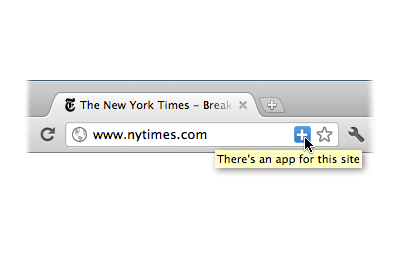
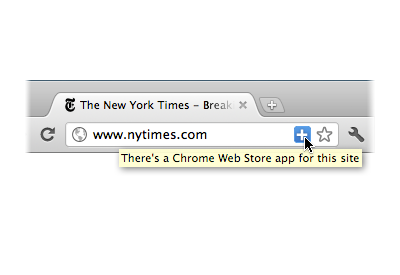
Update README with Chrome Web Store link.
Update screenshot with new name.

Changed region(s): [[0.27, 0.5236, 0.9, 0.64]]

diff --git a/README.md b/README.md
@@ -5,6 +5,8 @@
  * A page action (a blue [+] icon) shows up on sites that have a corresponding Chrome Web Store entry.
  * The options page (shown when the extension is first installed) shows sites from your browser history that have a Chrome Web Store entry.
 
+The extension can be found [in the Chrome Web Store](https://chrome.google.com/webstore/detail/ohmcjnlhiaobipnkdonkcpomgkpgfdch).
+
 ## Matching up sites and Chrome Web Store entries
 
 The extension includes a dump of the top ~1000 web store apps (see `extension/app-data.js`). For each app there is a set of URL patterns that it should match. This data is derived from the [`urls` section](http://code.google.com/chrome/apps/docs/developers_guide.html#manifest) in the apps' manifest. This means that no personal data is sent to the Chrome Web Store (or any other server) to see if a URL correponds to a store entry.
